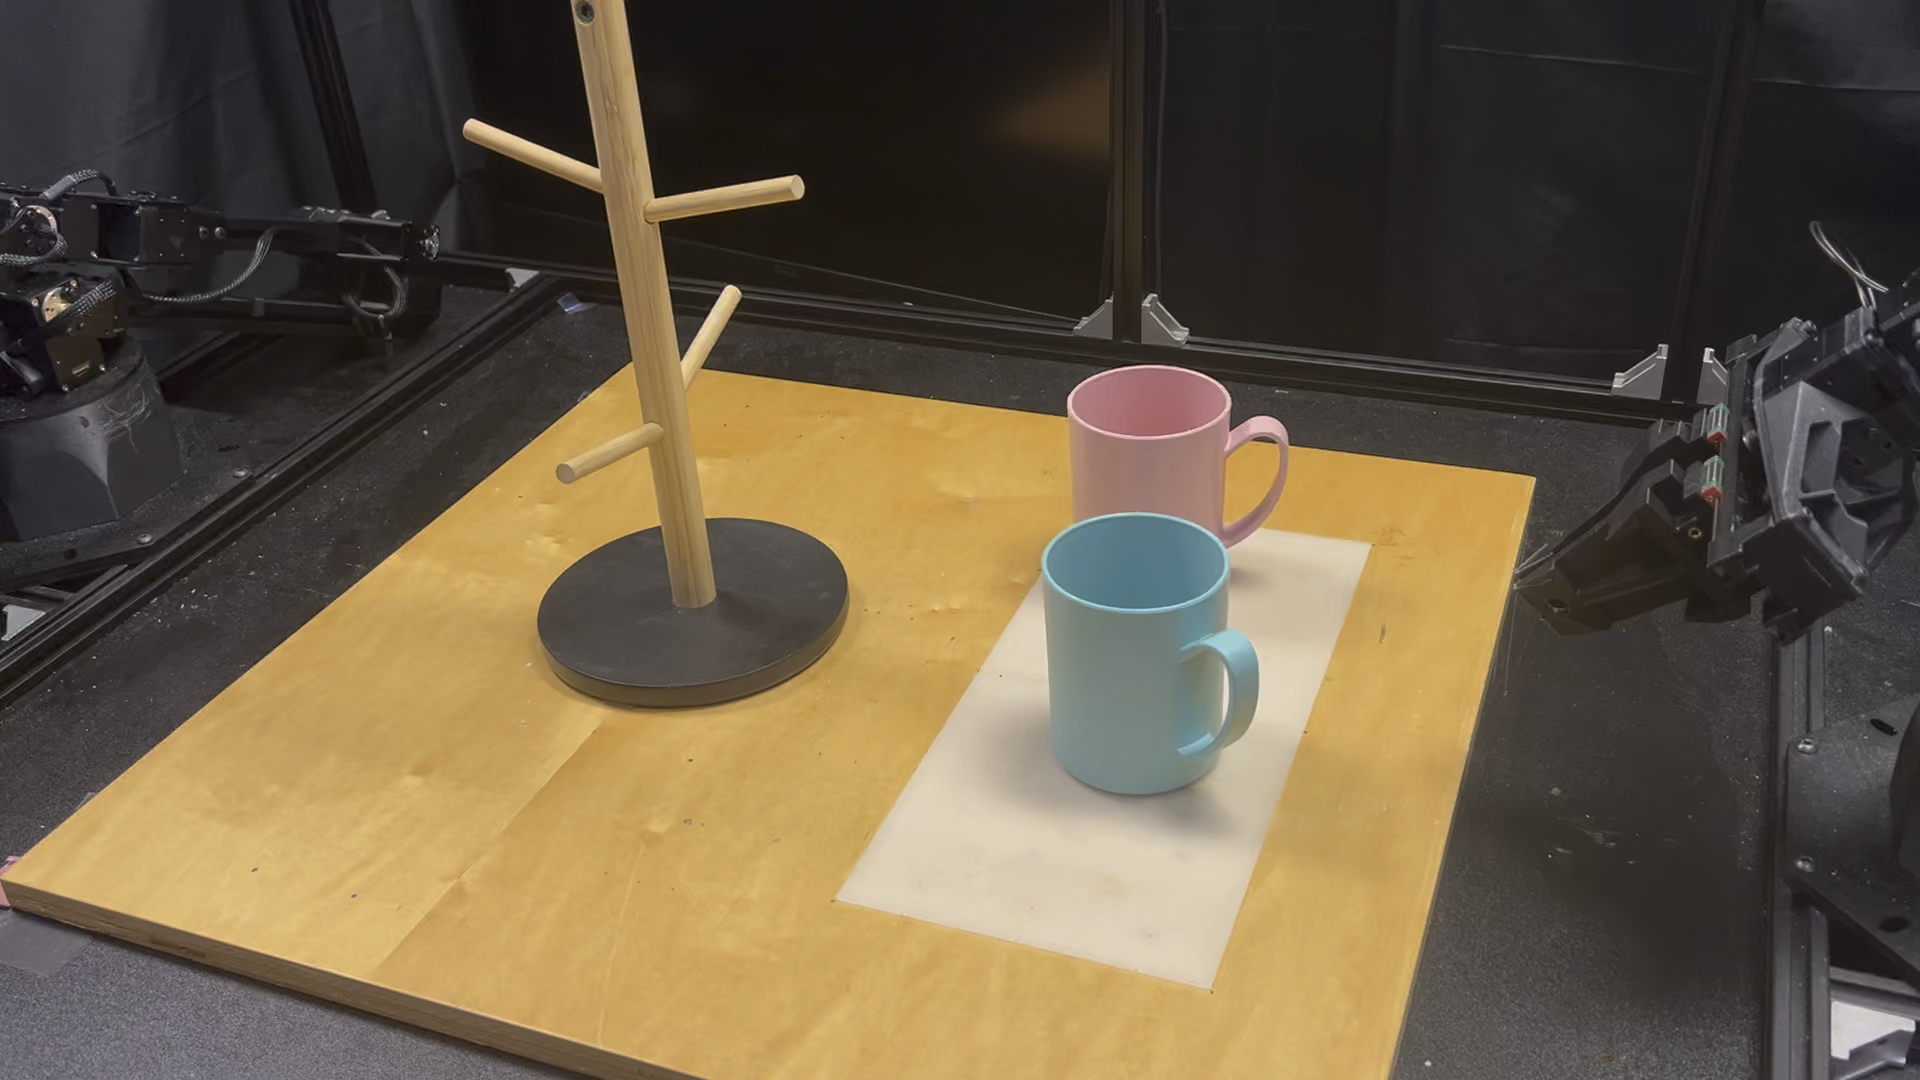
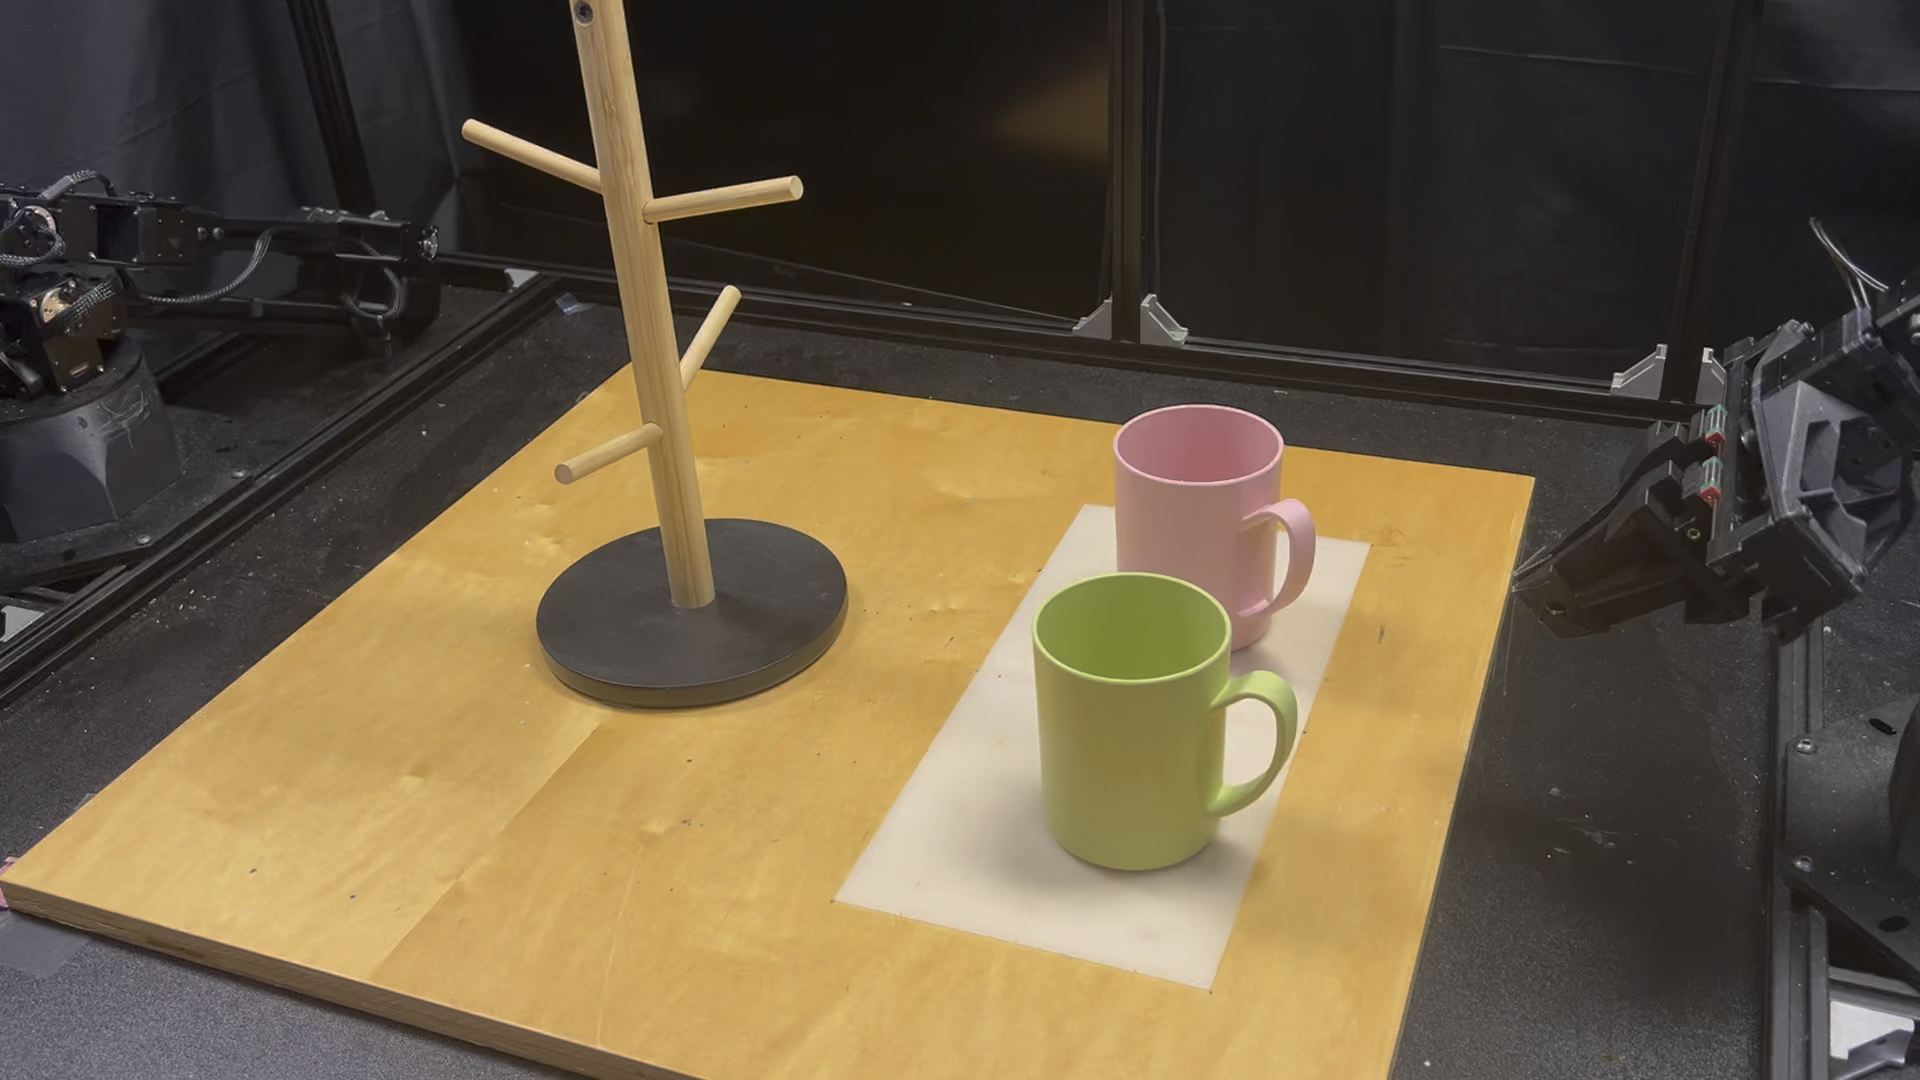
update example 2

diff --git a/app.js b/app.js
@@ -7,23 +7,63 @@ const taskConfigs = {
     hang_mug: {
         name: 'Hanging Mug',
         image: 'media/images/hang_mug.png',
-        instructions: [
-            'Hang the blue mug on the left branch',
-            'Hang the red mug on the branch furthest to it',
-            'Hang the red mug on one branch, sorry, the blue one.',
-            'I want to use the blue mug. Hang the red mug on one branch.'
-        ],
-        placeholder: 'Hang the blue mug on the left branch.',
+        configs: {
+            config_1: {
+                instructions: [
+                    'Hang the blue mug on the left branch',
+                    'Hang the red mug on the branch furthest to it',
+                    'Hang the red mug on one branch, sorry, the blue one.',
+                    'I want to use the blue mug. Hang the red mug on one branch.'
+                ],
+                placeholder: 'Hang the blue mug on the left branch.'
+            },
+            config_2: {
+                instructions: [
+                    'Hang the green mug on the left branch',
+                    'Hang the red mug on the branch furthest to it',
+                    'Hang the red mug on one branch, sorry, the green one.',
+                    'I want to use the green mug. Hang the red mug on one branch.'
+                ],
+                placeholder: 'Hang the green mug on the center branch.'
+            },
+            config_3: {
+                instructions: [
+                    'Hang the blue mug on the left branch',
+                    'Hang the red mug on the branch furthest to it',
+                    'Hang the red mug on one branch, sorry, the blue one.',
+                    'I want to use the blue mug. Hang the red mug on one branch.'
+                ],
+                placeholder: 'Hang the blue mug on the left branch.'
+            }
+        },
         backendEndpoint: '/generate'
     },
     pack_battery: {
         name: 'Packing Battery',
         image: 'media/images/pack_battery.png',
-        instructions: [
-            'I want to put a battery into the slot on the right column',
-            'Put the battery to the slot furthest to it'
-        ],
-        placeholder: 'I want to put a battery into the slot on the right column.',
+        configs: {
+            config_1: {
+                instructions: [
+                    'I want to put a battery into the slot on the right column',
+                    'Put the battery to the slot furthest to it'
+                ],
+                placeholder: 'I want to put a battery into the slot on the right column.'
+            },
+            config_2: {
+                instructions: [
+                    'I want to put a battery into the slot on the right column',
+                    'Put the battery to the slot furthest to it'
+                ],
+                placeholder: 'I want to put a battery into the slot on the right column.'
+            },
+            config_3: {
+                instructions: [
+                    'I want to put a battery into the slot on the right column',
+                    'Put the battery to the slot furthest to it'
+                ],
+                placeholder: 'I want to put a battery into the slot on the right column.'
+            }
+        },
         backendEndpoint: '/generate_battery'
     }
 };
@@ -109,7 +149,8 @@ function handleTaskSelect() {
     
     // Update instruction dropdown
     instructionSelect.innerHTML = '';
-    taskData.instructions.forEach(instruction => {
+    const configs = taskData.configs[currentConfig];
+    configs.instructions.forEach(instruction => {
         const option = document.createElement('option');
         option.value = instruction;
         option.textContent = instruction;
@@ -123,7 +164,7 @@ function handleTaskSelect() {
     instructionSelect.appendChild(customOption);
     
     // Update placeholder
-    instructionInput.placeholder = taskData.placeholder;
+    instructionInput.placeholder = configs.placeholder;
     
     // Reset to first configuration
     configSelect.value = 'config_1';
@@ -141,10 +182,34 @@ function handleTaskSelect() {
 function handleConfigSelect() {
     const configSelect = document.getElementById('config-select');
     const taskImage = document.getElementById('task-image');
+    const instructionSelect = document.getElementById('instruction-select');
+    const instructionInput = document.getElementById('instruction');
+    
     currentConfig = configSelect.value;
     
     // Update image to use task and config specific path
     taskImage.src = `media/images/${currentTask}/${currentConfig}.png`;
+    
+    // Update instruction dropdown based on current task and config
+    const taskData = taskConfigs[currentTask];
+    const configData = taskData.configs[currentConfig];
+    
+    instructionSelect.innerHTML = '';
+    configData.instructions.forEach(instruction => {
+        const option = document.createElement('option');
+        option.value = instruction;
+        option.textContent = instruction;
+        instructionSelect.appendChild(option);
+    });
+    
+    // Add custom option
+    const customOption = document.createElement('option');
+    customOption.value = 'custom';
+    customOption.textContent = 'Custom instruction';
+    instructionSelect.appendChild(customOption);
+    
+    // Update placeholder
+    instructionInput.placeholder = configData.placeholder;
     
     // Load intermediate results for selected configuration
     loadDefaultIntermediateResults();

diff --git a/index.html b/index.html
@@ -168,7 +168,7 @@
 
                             <!-- Video Link -->
                             <span class="link-block">
-                                <a target="_blank" href="https://youtu.be/IaDySSp5Wf8"
+                                <a target="_blank" href="https://youtu.be/b4ssu_V85ek"
                                    class="external-link button is-normal is-rounded is-dark">
                                     <span class="icon">
                                         <i class="fab fa-youtube"></i>
@@ -394,7 +394,7 @@
             <div class="column is-full">
             <h2 class="title is-3">Video</h2>
             <div class="publication-video">
-              <iframe src="https://www.youtube.com/embed/IaDySSp5Wf8"
+              <iframe src="https://www.youtube.com/embed/b4ssu_V85ek"
                       frameborder="0" allow="autoplay; encrypted-media" allowfullscreen></iframe>
             </div>
             </div>
